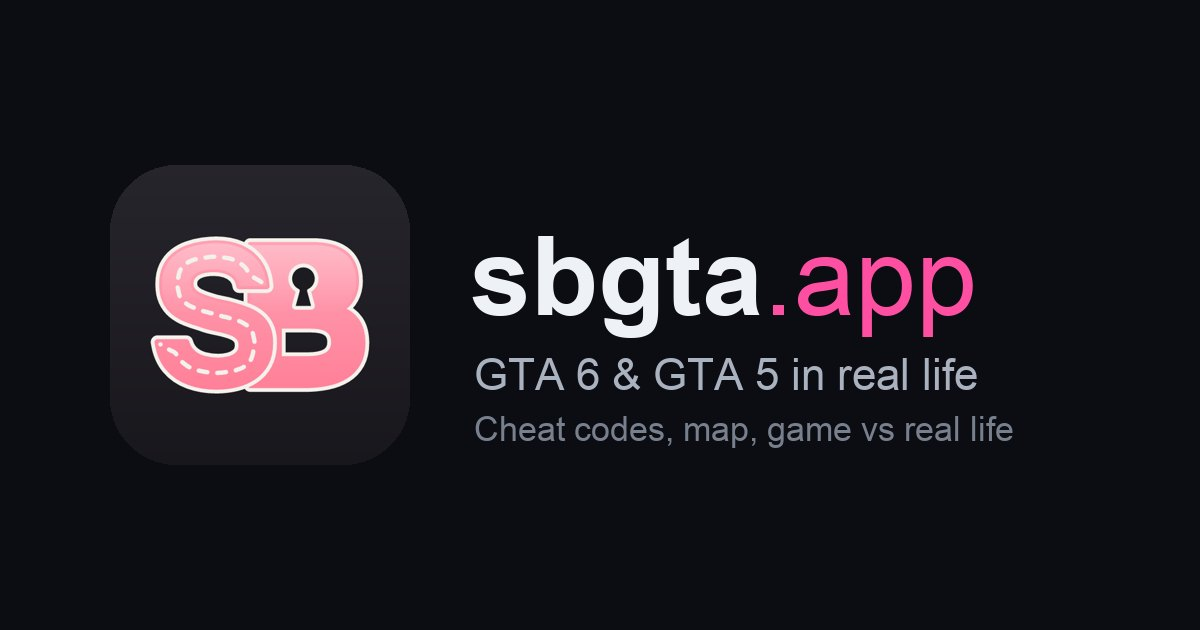
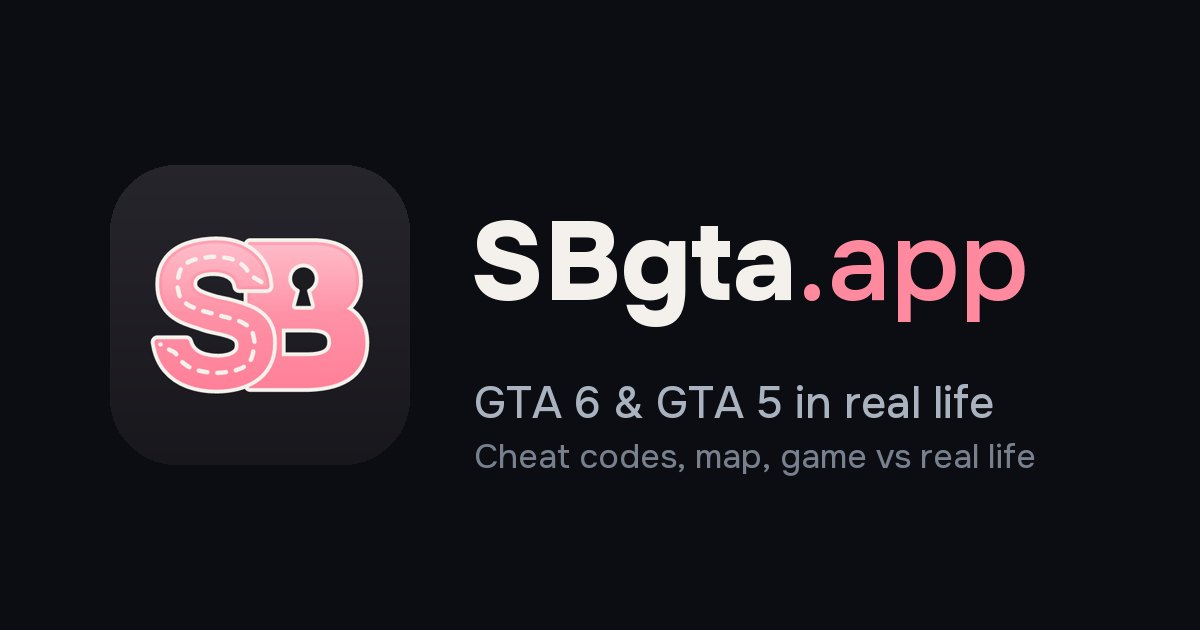
Запасное превью s/og/site.jpg — логотип SBgta.app (Onest, как в шапке); SW v98, beta-v91, mvp-v91

Changed region(s): [[0.37, 0.5429, 0.8633, 0.754], [0.37, 0.3317, 0.8633, 0.5429]]

diff --git a/sw.js b/sw.js
@@ -1,7 +1,7 @@
 // Офлайн-кэш. Оболочка — из кэша (быстро), данные data/*.json — сначала из сети,
 // чтобы новые коды (например, GTA 6 после релиза) появлялись без обновления приложения.
 // При изменении файлов оболочки поднимите VERSION.
-const VERSION = 'v97';
+const VERSION = 'v98';
 const SHELL = [
   './', 'index.html', 'manifest.webmanifest', 'css/tokens.css', 'css/styles.css', 'css/onboarding.css', 'css/hub.css', 'css/layout.css', 'css/map-glass.css', 'css/skin.css', 'css/league.css',
   'js/app.js', 'js/config.js', 'js/i18n.js', 'js/icons.js', 'js/map.js', 'js/places.js', 'js/skin.js', 'js/league.js', 'js/api.js', 'js/demo-data.js', 'js/pay.js',

diff --git a/tools/make_og_site.py b/tools/make_og_site.py
@@ -12,8 +12,11 @@ im.paste(ic, (110, 165), m)
 def f(sz, bold=True):
     try: return ImageFont.truetype("/System/Library/Fonts/Supplemental/Arial%s.ttf" % (" Bold" if bold else ""), sz)
     except Exception: return ImageFont.load_default()
-d.text((470, 215), "sbgta", font=f(110), fill=(238, 241, 246))
-d.text((470 + d.textlength("sbgta", font=f(110)), 215), ".app", font=f(110, False), fill=(255, 79, 163))
-d.text((474, 350), "GTA 6 & GTA 5 in real life", font=f(44, False), fill=(170, 178, 192))
-d.text((474, 410), "Cheat codes, map, game vs real life", font=f(34, False), fill=(120, 128, 142))
+# логотип SBgta.app тем же шрифтом и цветом, что в шапке (Игорь 21.11.2026; tools/make_lockup_domain.py, og_render.lockup)
+import sys; sys.path.insert(0, str(ROOT / "tools")); import og_render
+b, r = og_render.onest(112, 800), og_render.onest(112, 560)
+d.text((470, 300), "SBgta", font=b, fill=(244, 241, 236), anchor="ls")
+d.text((470 + d.textlength("SBgta", font=b), 300), ".app", font=r, fill=og_render.PINK, anchor="ls")
+d.text((474, 375), "GTA 6 & GTA 5 in real life", font=og_render.onest(44, 500), fill=(170, 178, 192))
+d.text((474, 435), "Cheat codes, map, game vs real life", font=og_render.onest(34, 450), fill=(120, 128, 142))
 im.save(ROOT / "s/og/site.jpg", quality=86)
